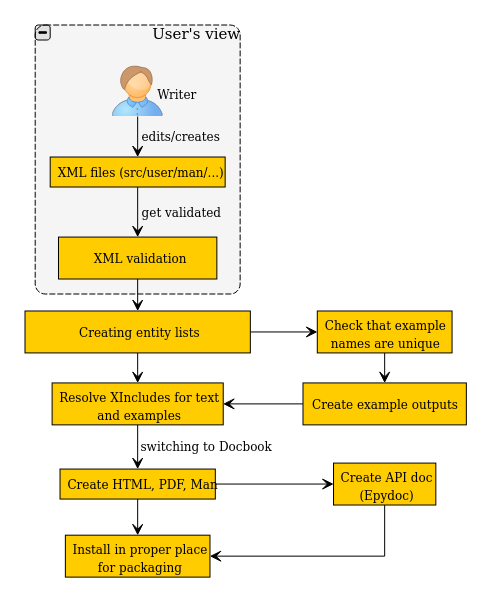
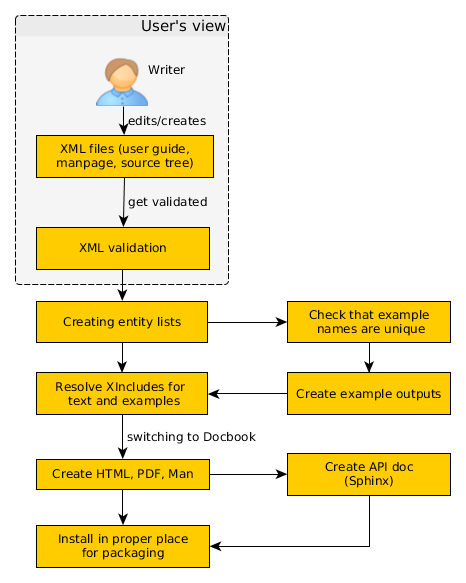
Update doc development overview  [ci skip]
Includes updates to the diagram that shows the doc flow
(although it could still be improved. I'm not a diagramming
expert so settling for what I could accomplish)

Changed region(s): [[0.03, 0.0309, 0.9914, 0.988]]

diff --git a/doc/overview.rst b/doc/overview.rst
@@ -6,19 +6,25 @@ SCons Documentation Toolchain
 Introduction
 ============
 
-This text tries to give an overview of the current SCons documentation
-toolchain.  As a prospective doc editor, you should be able to quickly
+This is an overview of the current SCons documentation toolchain.
+As a prospective doc editor, you should be able to quickly
 understand the basic concepts (if not, please let the project know how
 it falls short).  It is also a reference for core developers and the
 release team.
 
 .. image:: images/overview.png
 
-The diagram above roughly shows the steps that we currently need for
-creating all the MAN pages, User manuals and reference documents. You
-may think: "Geeez, that looks so complicated. Why can't they simply
-convert XML files to PDF with Docbook, or use reST?" Please be patient,
-and continue reading. Things will get a little clearer soon.
+The diagram above roughly shows the steps that we currently use.
+Note there are two separate sets of documentation maintained with
+the project code itself: the reference manual and user guide,
+which have xml source files; and the docstrings in the Python code,
+from which the API documentation is generated. Most of the time
+when we talk about "SCons Documentation" we mean the former,
+as that's what is intended for end-user consumption.
+
+If you look at the diagram, it looks a bit complicated. after
+reading this overview, it will be clear what is actually happening,
+and why we need all these steps.
 
 Our toolchain doesn't only produce HTML and PDF files that are nice
 to look at, it also performs a lot of processing under the covers. We
@@ -30,31 +36,36 @@ So let's start right at the top...
 Writer's view
 =============
 
-SCons documentation is written in Docbook (the xml variant).
-The toolchain is set up so that a writer has a restricted view of the
+SCons documentation is written in Docbook XML.
+The toolchain is set up so a writer has a restricted view of the
 whole "document processing thingy". All you should need to be concerned
 with is to edit existing text or write new sections and paragraphs.
 Sometimes even a completely new chapter has to be added. The hope
 is that you can fire up your XML editor of choice and type away.
 
-XML is easy to get wrong, so you need to case about
+XML is easy to get wrong, so you need to care about
 validating the XML files
-against our special "SCons Docbook DTD/XSD". You can run the
-special script
+against our special "SCons Docbook DTD/XSD".
+If you're not using an XML editor, validate by
 
 ::
 
     python bin/docs-validate.py
 
 
-from the top source folder to validate. If you are able to use
-an XML editor, many of the potential problems are avoided -
-the most common error is not matching tag opening and closing
+from the top source folder. If you are able to use
+an XML editor, many of the potential problems are avoided,
+as it will complain real-time.
+The most common error is not matching tag opening and closing
 (for example ``<tag>foo<tag>`` is an easy typing error to make,
 as is starting a ``<para>``, typing text, and not adding the
-closing ``</para>``). XML editors make it much harder to make
-those errors, which minor though they seem, will completely
-break the document build.
+closing ``</para>``, as is mistyping one of the two
+tag markers). XML editors make it much harder to make
+those errors, which, minor though they seem, will completely
+break the document build. Unfortunately, the validation tools
+(which rely on the capabilities of the XML parser in use)
+are not that hard to fool, so you may get errors which are
+not that easy to deciper. There isn't much we can do about that.
 
 Everything's looking okay, all validation passed? Good, then simply
 commits your new work, and create a pull request on Github. That's it!
@@ -71,6 +82,8 @@ the actual XML files. You can call
 
 from within the directory, and have the MAN pages or HTML created...even
 PDF, if you have a renderer installed (``fop``, ``xep`` or ``jw``).
+At least ``fop`` doesn't like everything the docbook/xml chain
+produces and will spew a lot of errors, which we *think* are harmless.
 
 Validation
 ==========
@@ -149,7 +162,7 @@ By calling the script
 
 you can recreate the lists of entities (``*.mod``) in the ``generated``
 folder.  At the same time, this will generate the matching ``*.gen``
-files, which list the full description of all the Builders, Tools,
+files, which hold the full descriptions of all the Builders, Tools,
 Functions and CVars for the MAN page and the User Guide's appendix.
 Thus, you want to regenerate when there's a change to
 any of those four special elements, or an added or deleted element.
@@ -217,7 +230,7 @@ For example, when documenting a Tool in
 ``SCons/Tool/newtool.xml`` using the ``<tool>`` tag,
 and noting that the tool ``<uses>`` or ``<sets>``
 certain construction variables,
-those construction variables can be documented 
+those construction variables can be documented
 right there as well using ``<cvar>`` tags.
 When processed with ``SConsDoc`` module,
 this will generate xml from the
@@ -279,6 +292,7 @@ part so that the version control system can show any unexpected
 changes in the outputs after editing the docs:
 
 ::
+
    git diff doc/generated/examples
 
 Some of the changes in example text are phony: despite best
